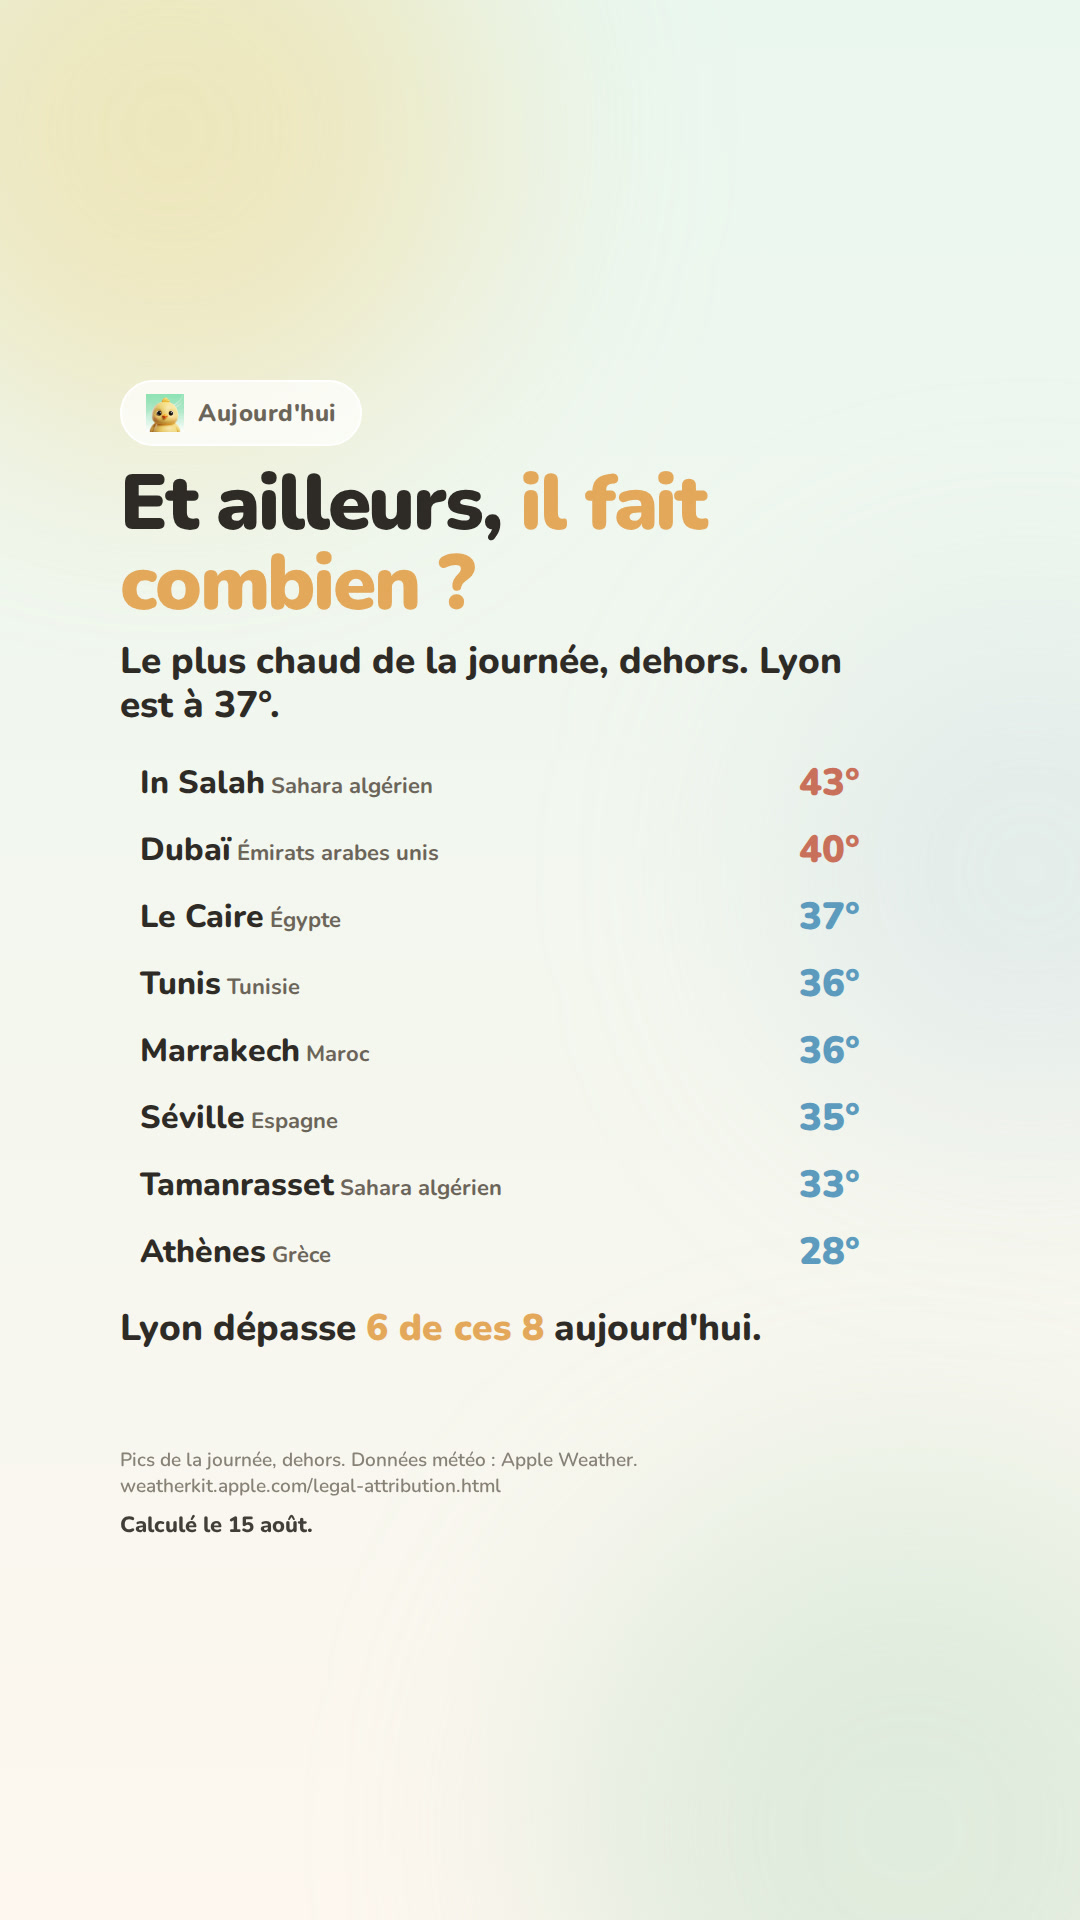
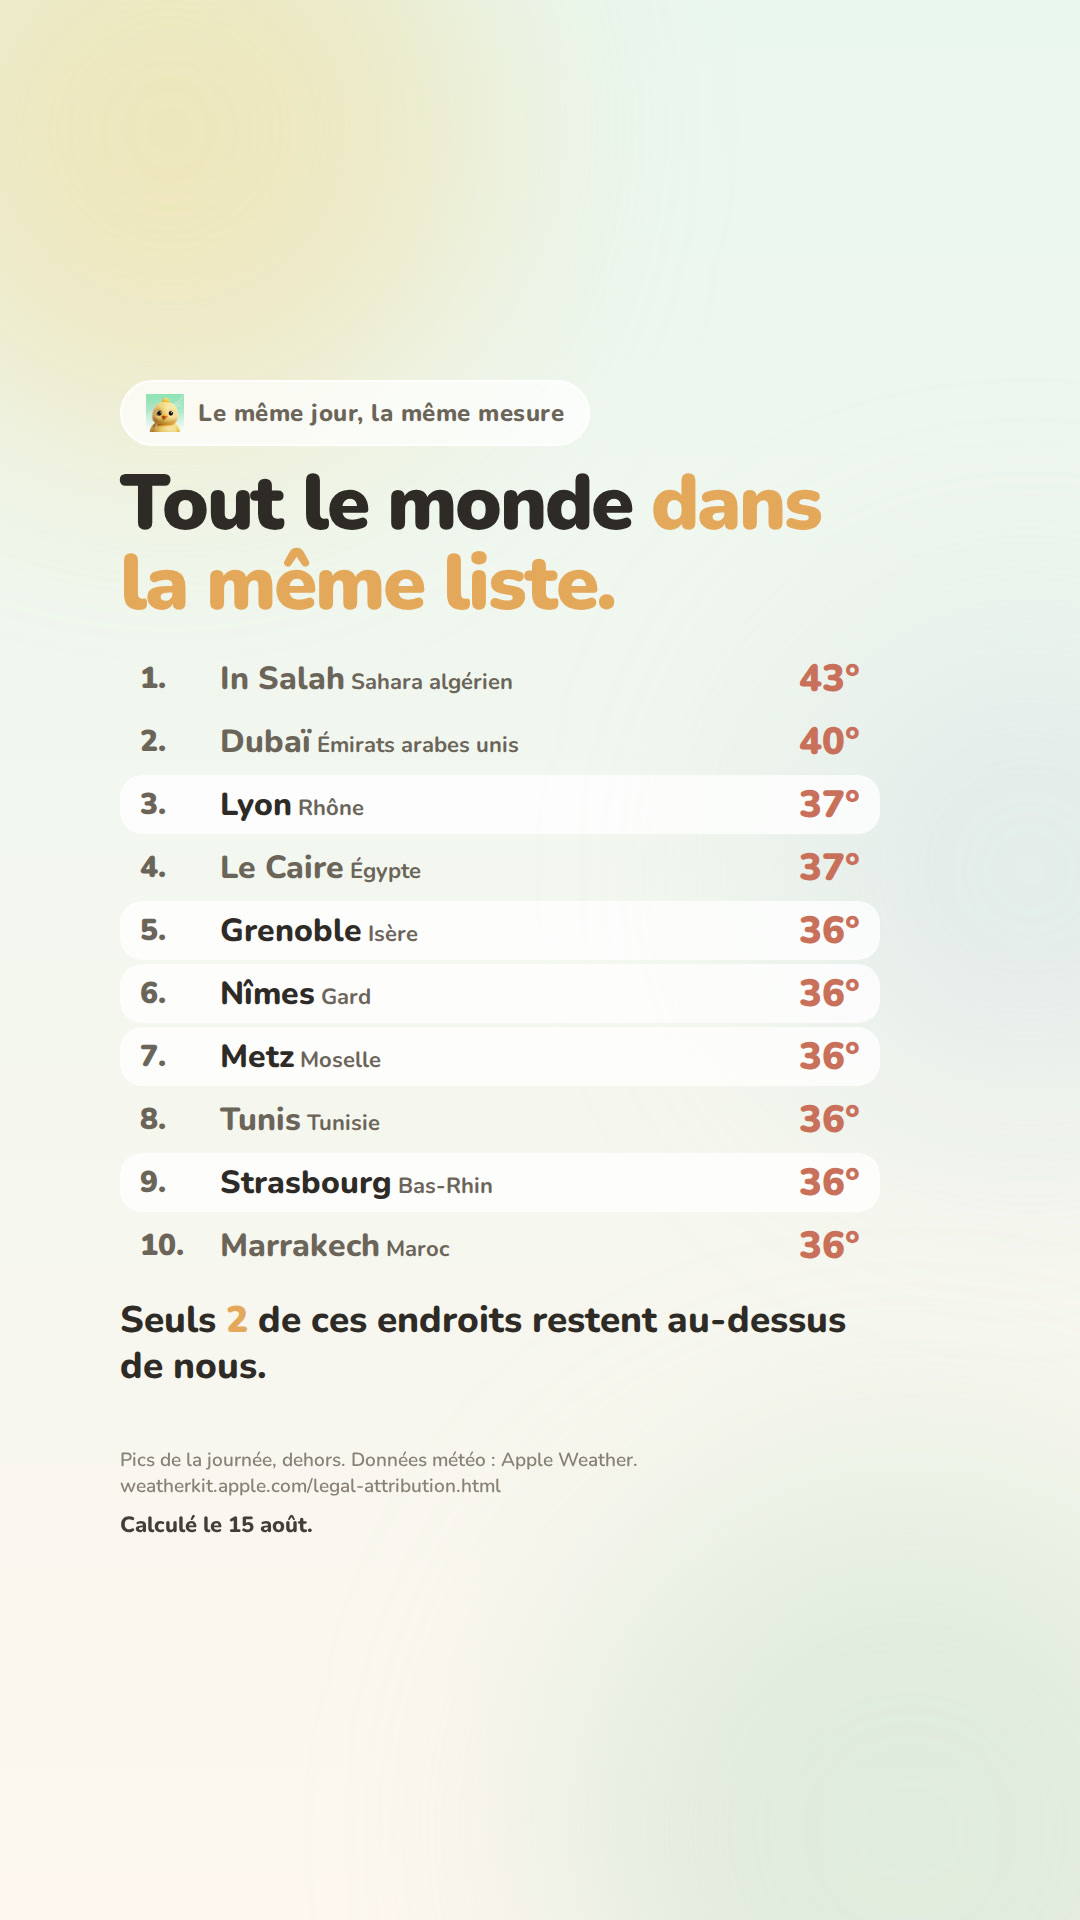
Visuels du 2026-08-15 (1-ailleurs)

Changed region(s): [[0.0917, 0.1875, 0.7944, 0.7188]]

diff --git a/daily/2026-08-15/index.html b/daily/2026-08-15/index.html
@@ -69,12 +69,12 @@
         <button class="zip">Télécharger le .zip</button>
       </div>
       <details>
-        <summary>La légende (660 caractères)</summary>
+        <summary>La légende (734 caractères)</summary>
         <pre class="caption">15 août : il fait plus chaud à Lyon qu'au Caire.
 
 Pics de la journée, dehors, calculés pour 15 août.
 
-Lyon monte à 37,0° aujourd'hui, contre 37,0° à Le Caire (Égypte). On compare le plus chaud de la journée, pas des climats : le désert reste le désert, et c'est bien ce qui rend la journée remarquable. Sur 8 endroits réputés pour leur chaleur, la France en dépasse 6 aujourd'hui — les 2 autres sont sur la deuxième image. Et chez toi, il fait combien ?
+Lyon monte à 37,0° aujourd'hui, contre 37,0° à Le Caire (Égypte). Villes françaises et endroits réputés pour leur chaleur sont dans le MÊME classement, sur la même mesure et le même jour : c'est la deuxième image. Sur 8, il n'en reste que 2 au-dessus de nous. On compare le plus chaud de la journée, pas des climats : le désert reste le désert, et c'est bien ce qui rend la journée remarquable. Et chez toi, il fait combien ?
 
 Températures extérieures maximales du jour, même source et même journée pour tous les lieux.
 
